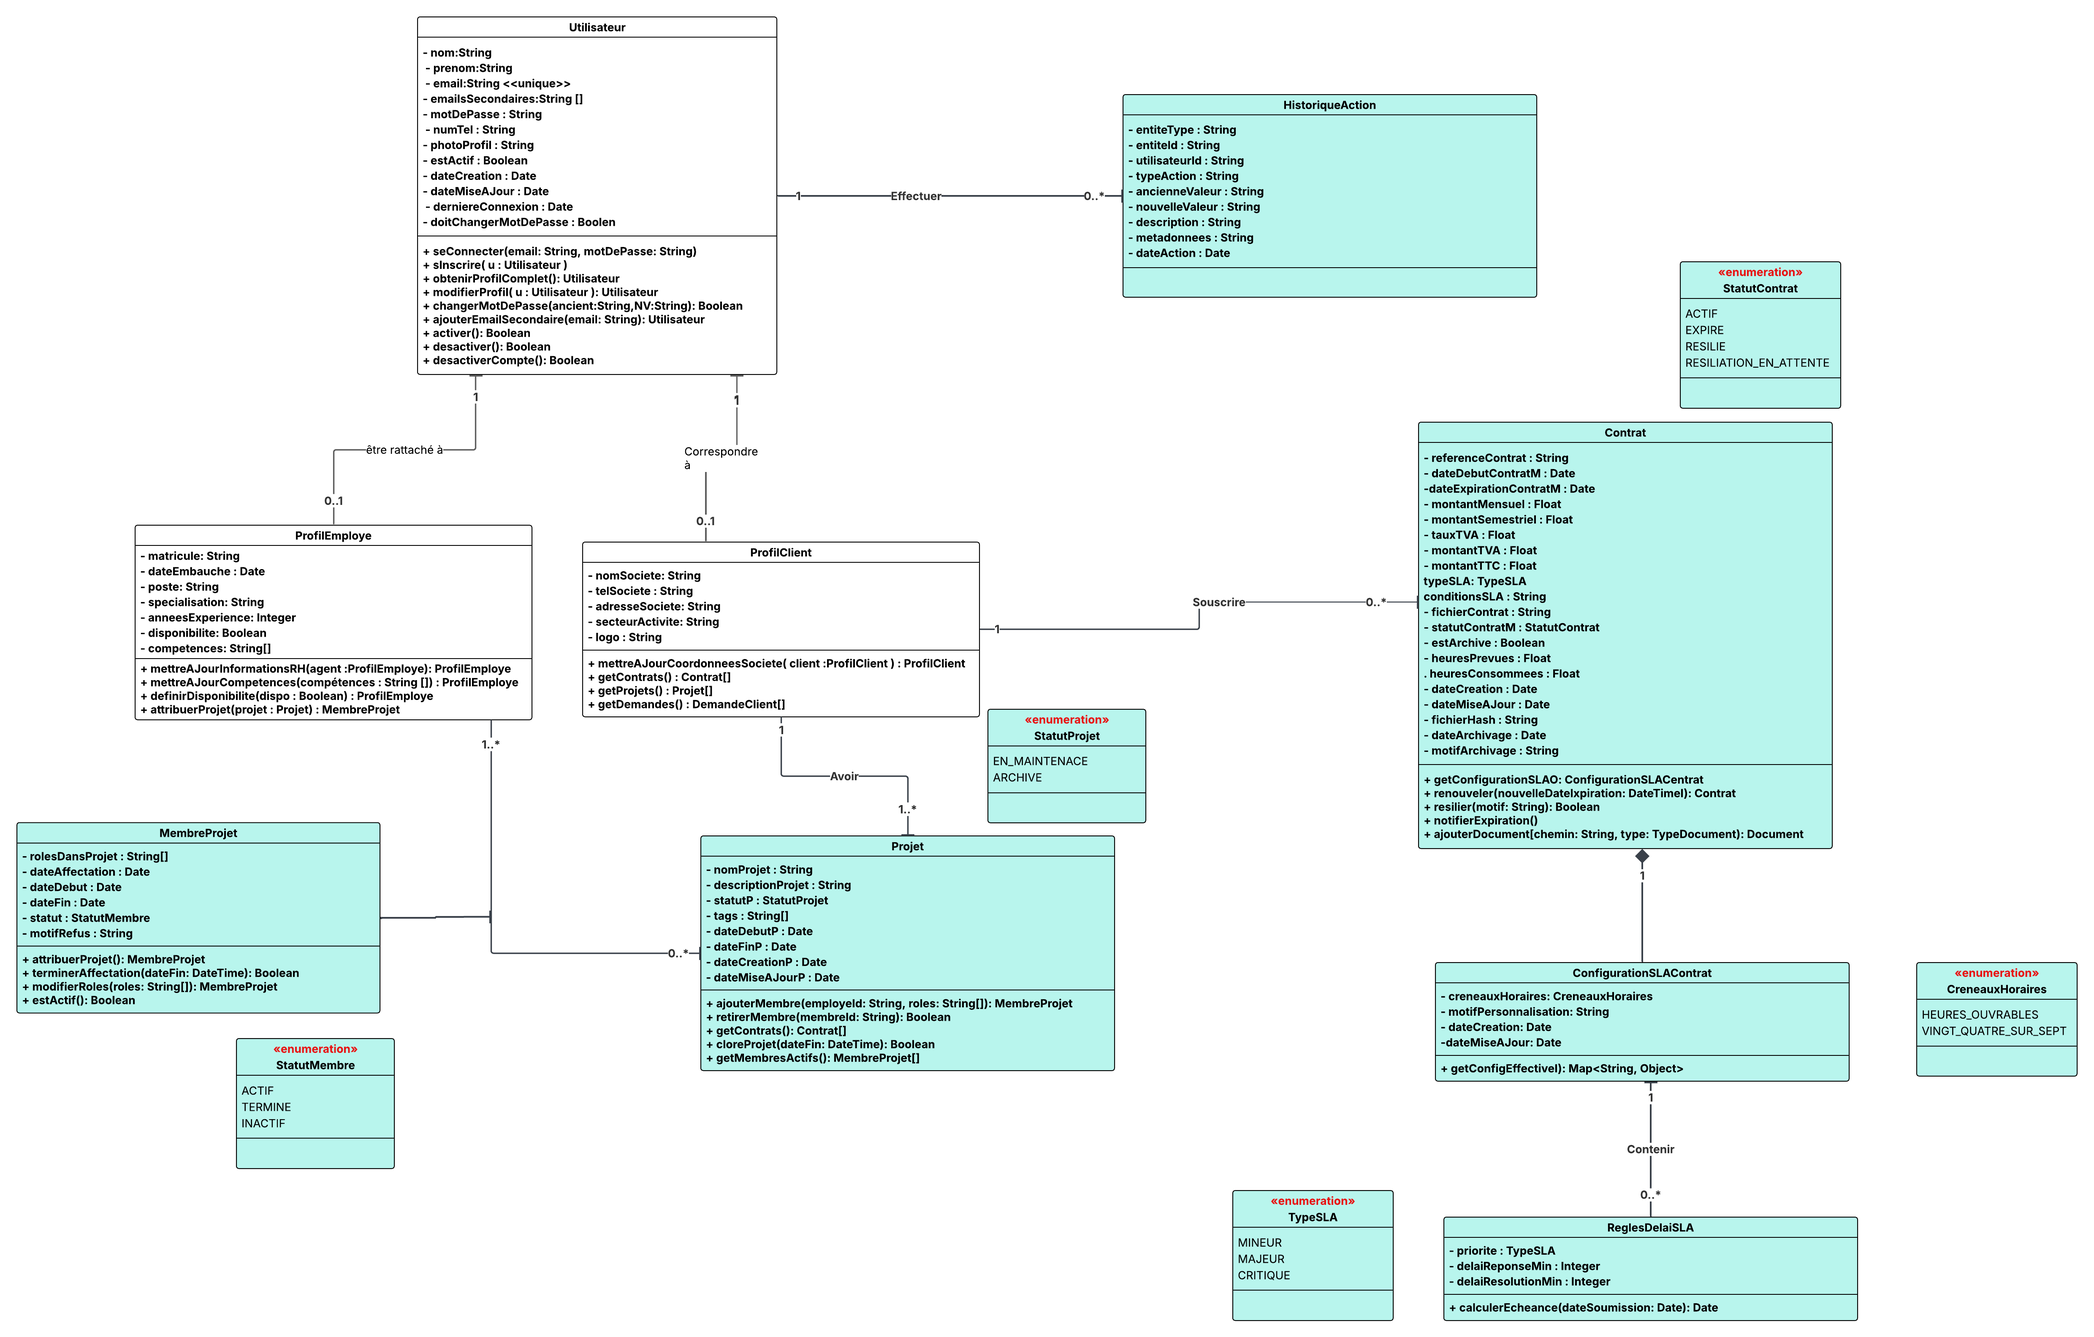
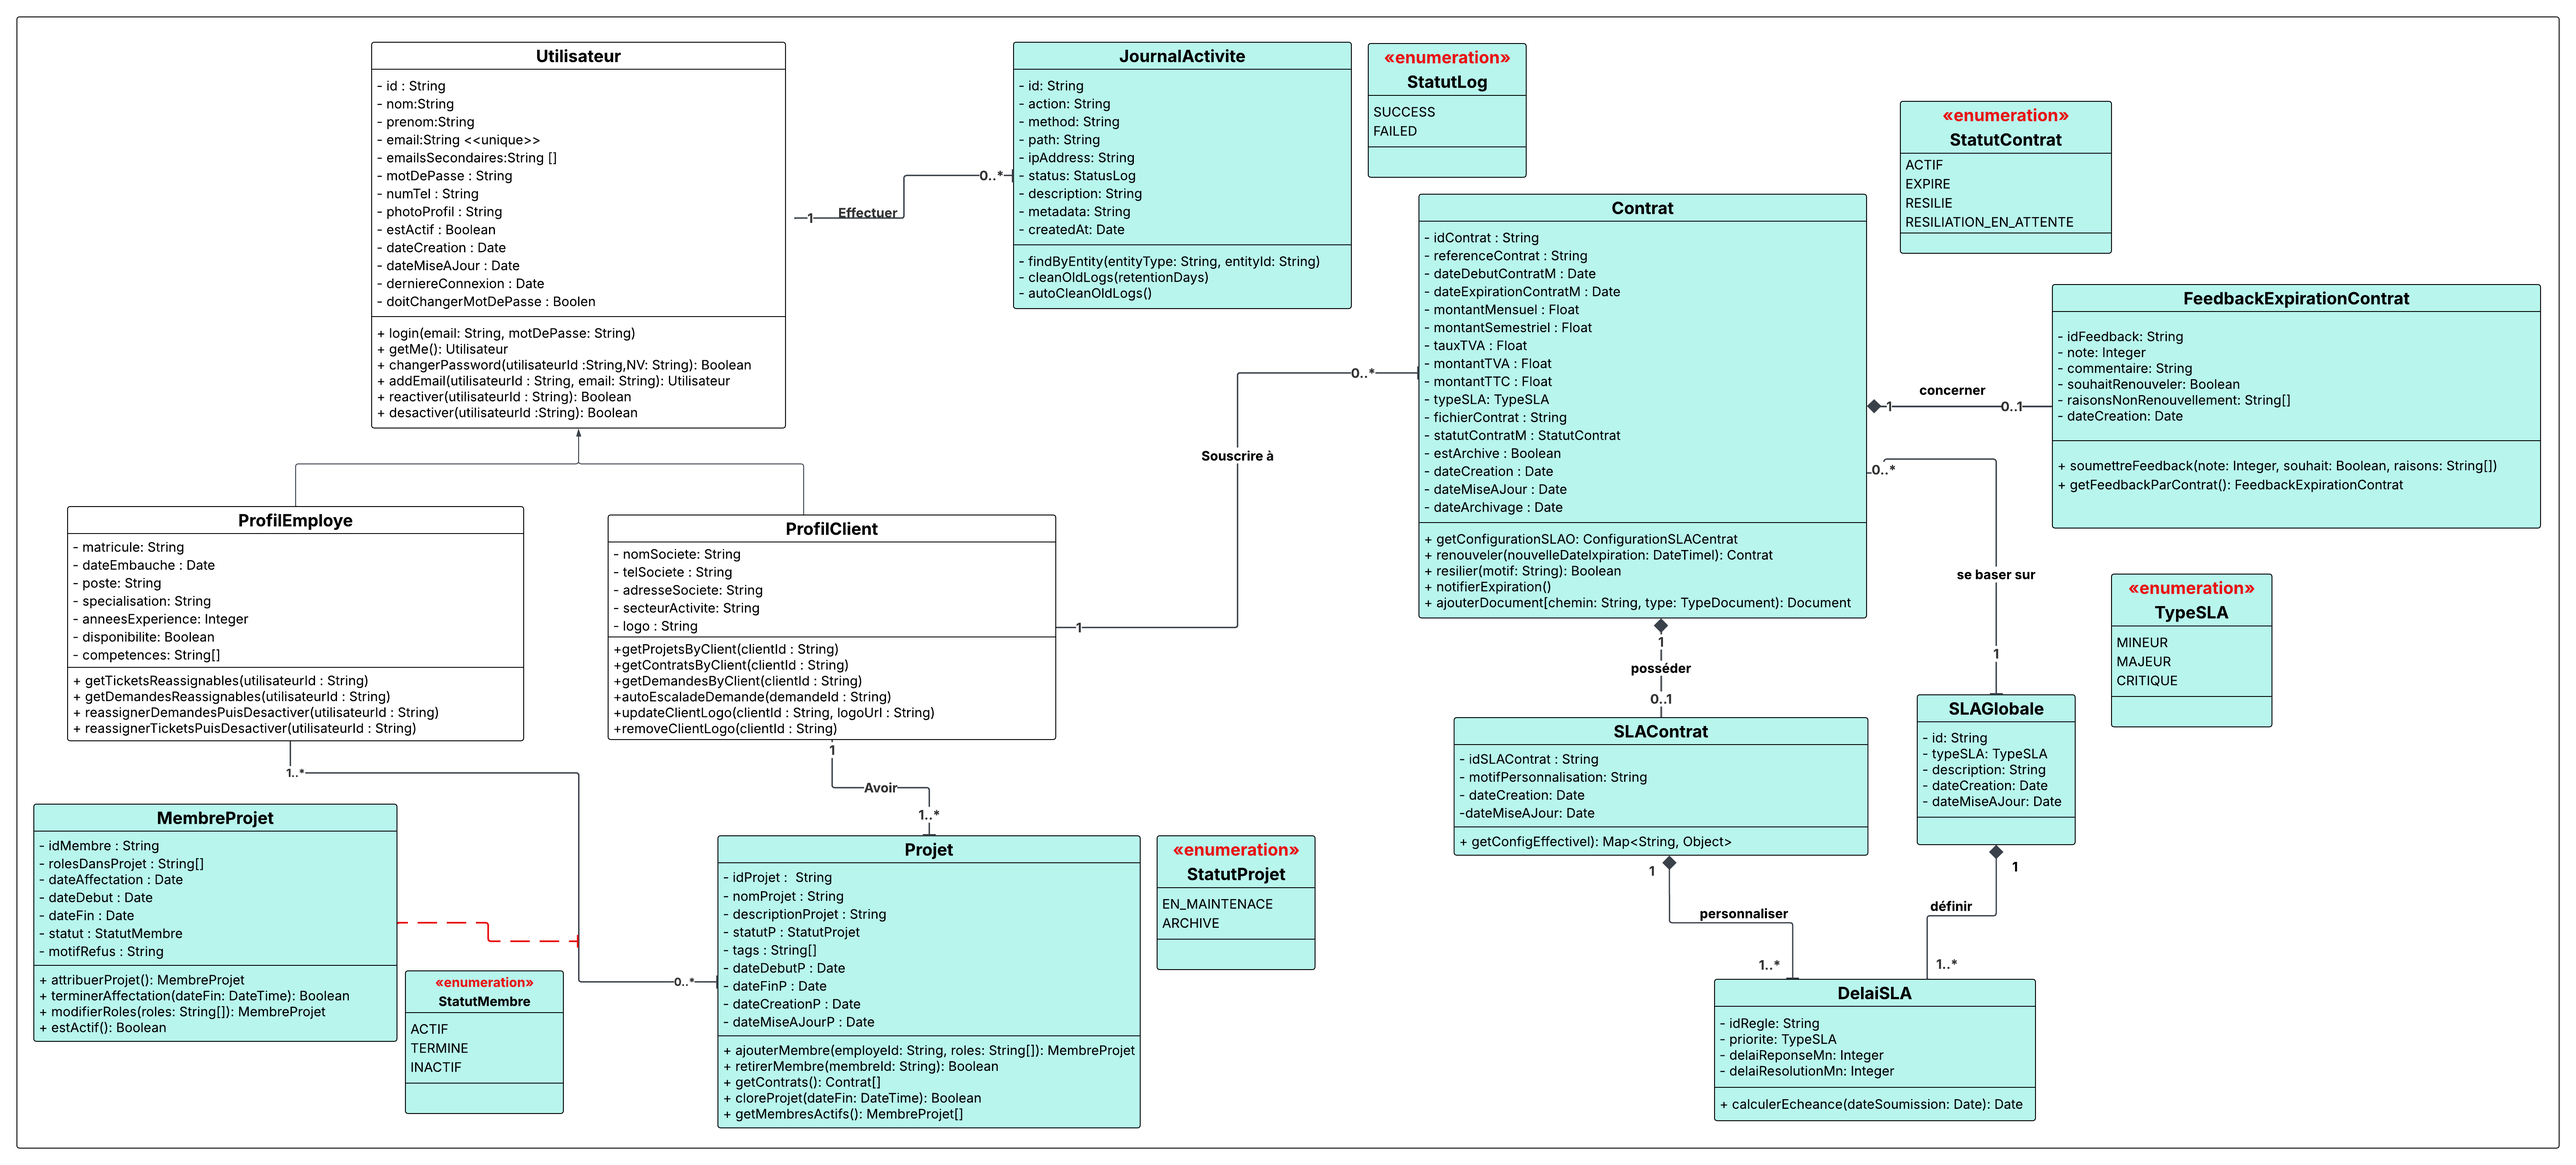
V3 23/05/2026 17:00

diff --git a/tex/chapitre4.tex b/tex/chapitre4.tex
@@ -566,9 +566,9 @@ L'administrateur est notifié par e-mail et notification interne. \\
 \section{Diagramme de classes du deuxième sprint}
 \begin{figure}[H]
 \centering
-\includegraphics[width=1\textwidth,keepaspectratio]
- {Images/diag classe sprint 2.png}
-\caption{Diagramme de classes du Sprint 2}
+\includegraphics[width=1\textwidth,keepaspectratio]{Images/diag classe sprint 2.png}
+
+\caption{Diagramme de classes du deuxième sprint}
 \label{fig:diag_classe_sprint2}
 \end{figure}
 
@@ -593,8 +593,7 @@ L'administrateur est notifié par e-mail et notification interne. \\
 
 \section{Schéma relationnel}
 {\sloppy
-Les entités introduites dans ce sprint complètent le schéma relationnel
-établi lors du premier sprint. Les relations clés sont les suivantes :
+Nous présentons ci-dessous le schéma relationnel réalisé pour ce sprint, qui détaille les différentes tables de la base de données ainsi que leurs relations :
 
 \noindent
 
@@ -616,7 +615,7 @@ Les entités introduites dans ce sprint complètent le schéma relationnel
 \newline
 \textbf{FeedbackExpirationContrat} (\underline{idFeedback}, \textbf{\#idContrat}, note, commentaire, souhaitRenouveler, raisonsNonRenouvellement, dateCreation)
 \newline 
-\textbf{Action}(\underline{idHistorique}, \textbf{\#idTicket}, \textbf{\#idUtilisateur}, entiteId, entiteType, typeAction, ancienneValeur, nouvelleValeur, description, metadonnees, dateAction)
+\textbf{JournalActivite} (\underline{id}, \textbf{\#idUtilisateur}, action, method, path, ipAddress, status, description, metadata, createdAt)
 
 }
 
